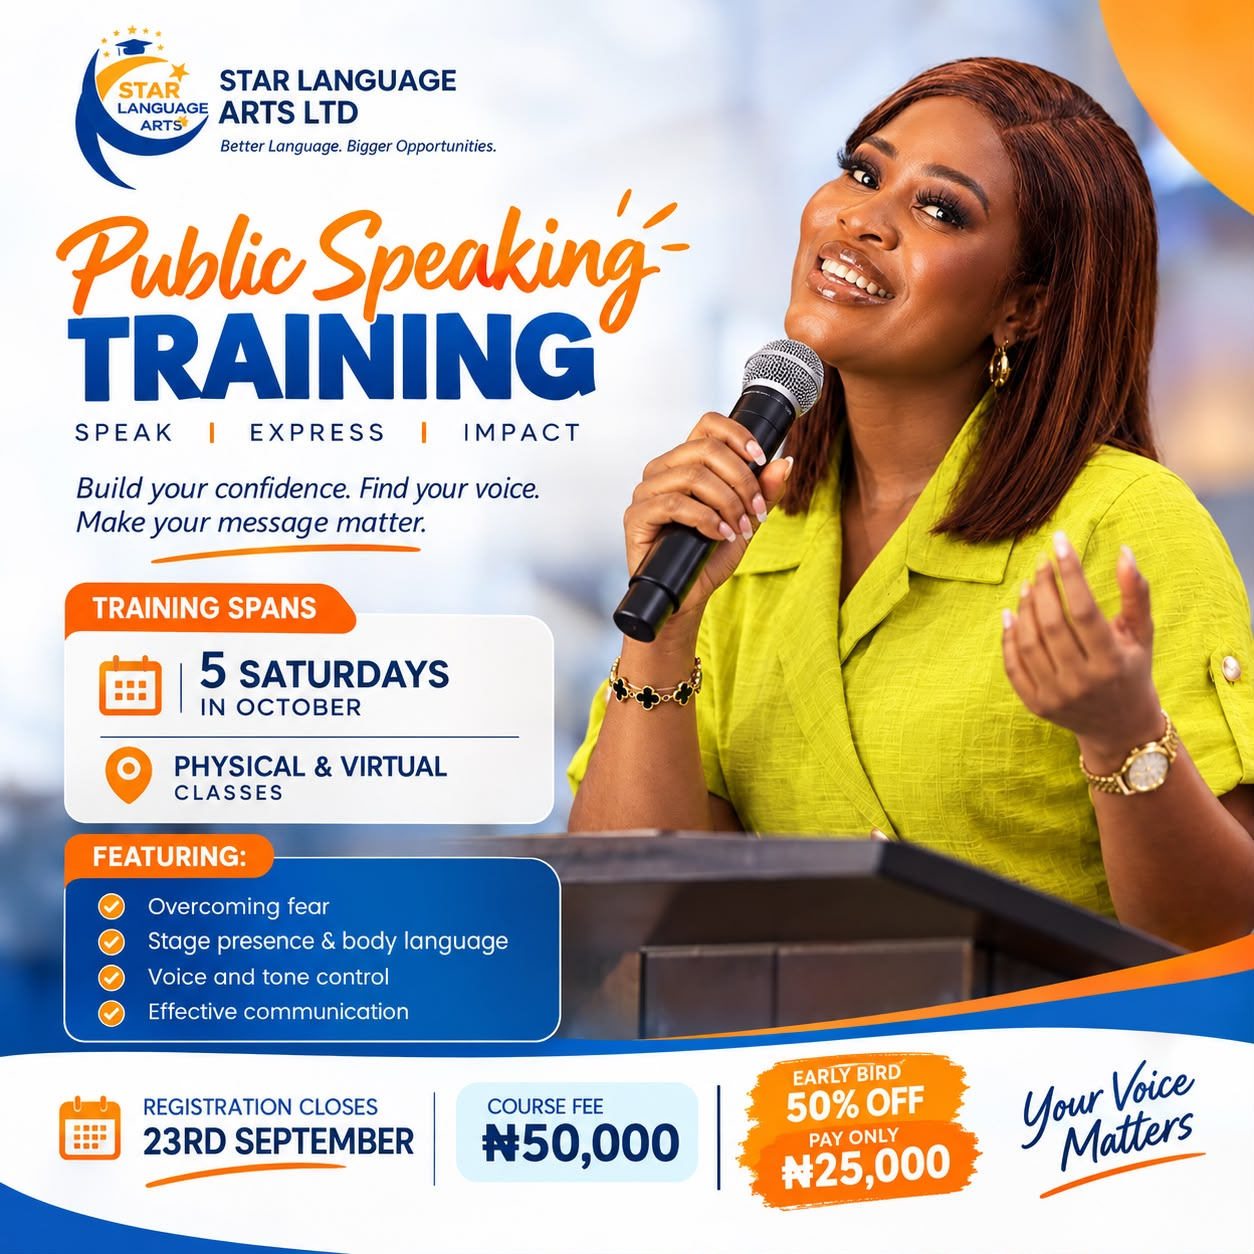
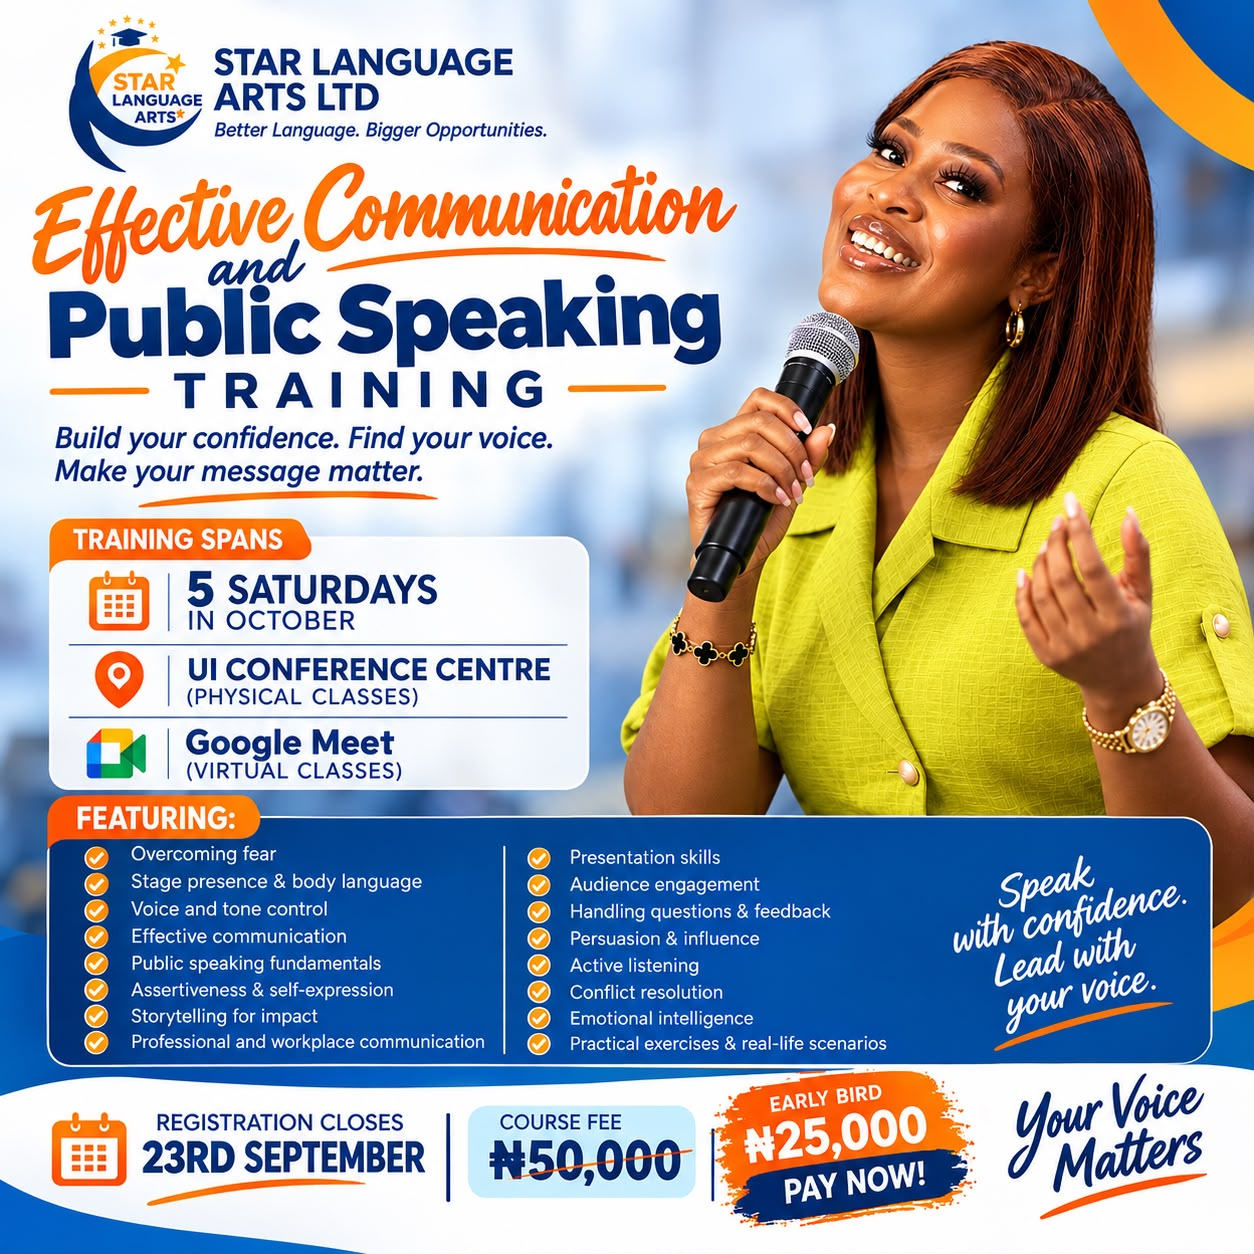
Add event registration system

diff --git a/effective-communication-registration.html b/effective-communication-registration.html
@@ -28,7 +28,7 @@
             STAR LANGUAGE ARTS LTD
           </a>
         </p>
-        <h1 id="formTitle">Effective Communication &amp; Public Speaking</h1>
+        <h1 id="formTitle">Effective Communication &amp; Public Speaking Training</h1>
         <p class="intro">
           Ready to communicate with more clarity, confidence and purpose?
           Join us for five Saturdays in October for practical classes,
@@ -476,7 +476,6 @@
         </section>
       </form>
 
-      <!-- ================= SUCCESS ================= -->
       <section class="success-screen" id="successScreen" aria-labelledby="successTitle" aria-live="polite">
         <div class="success-orbit orbit-one"></div>
         <div class="success-orbit orbit-two"></div>

diff --git a/STAR-LANGUAGE-ARTS-LTD-EVENTS.html b/STAR-LANGUAGE-ARTS-LTD-EVENTS.html
@@ -162,11 +162,12 @@
                     REGISTRATION OPEN
                 </span>
 
-                <h2>Public Speaking Training</h2>
+                <h2>Effective Communication and Public Speaking Training</h2>
 
                 <p class="event-description">
                     Ready to speak with confidence and make your message
-                    matter? Join us for our Public Speaking Training and
+                    significant? Join us for our Effective Communication 
+                    and Public Speaking Training and
                     develop the confidence, communication skills, and
                     stage presence you need to express yourself effectively.
                 </p>
